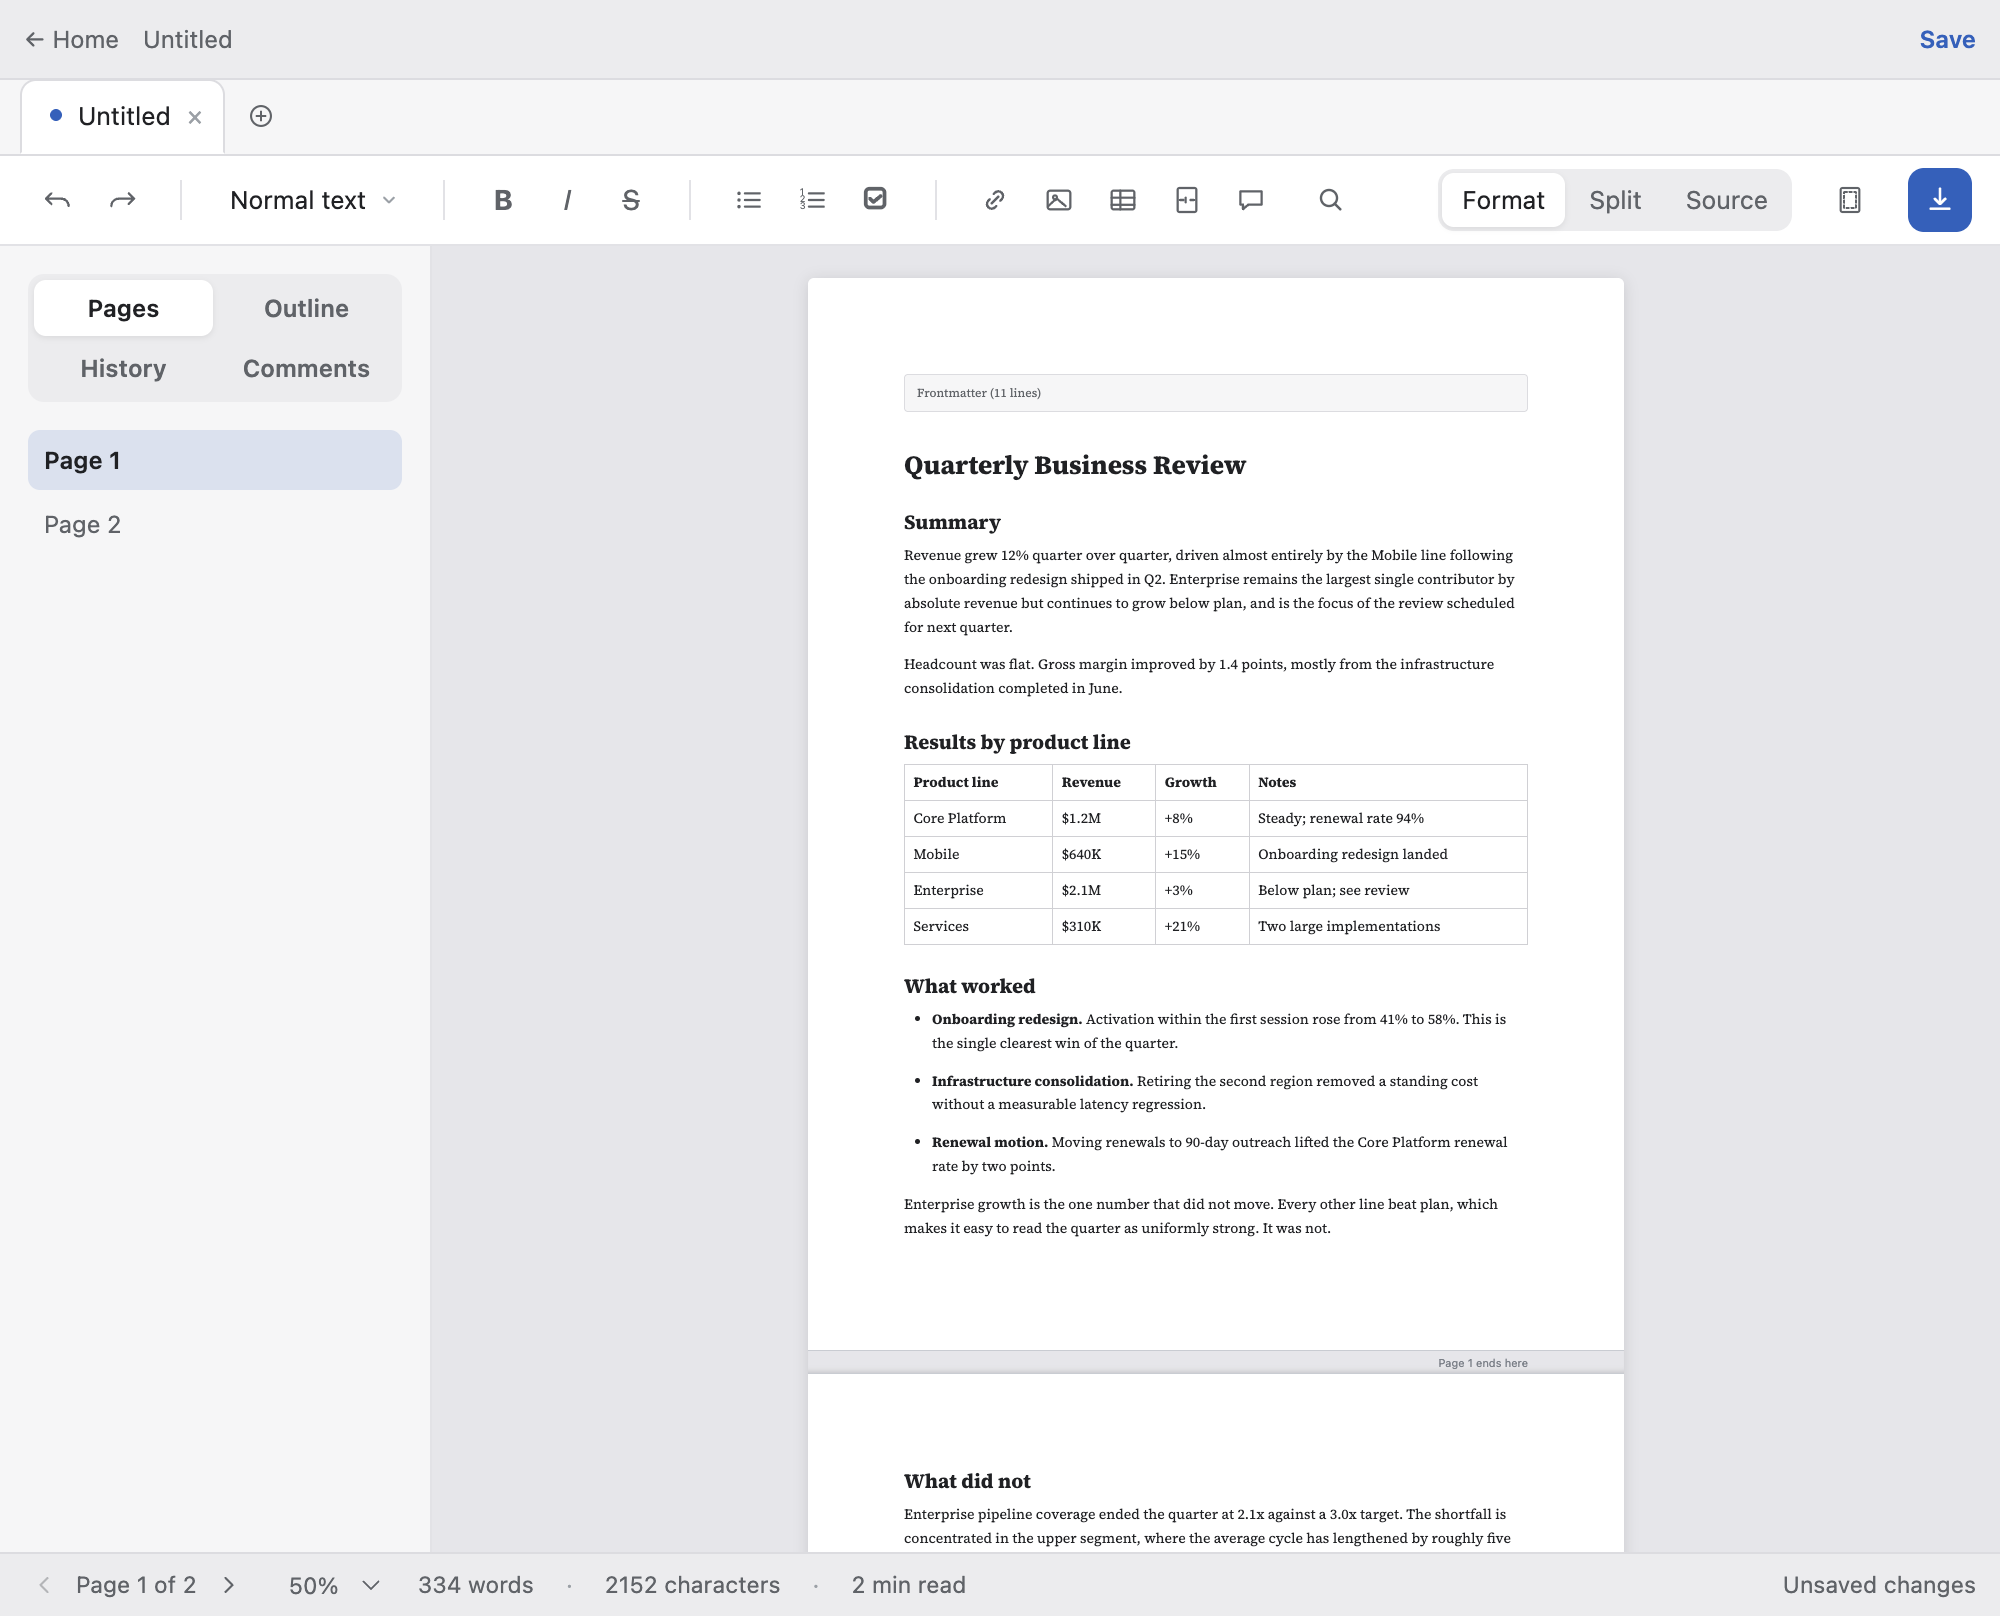
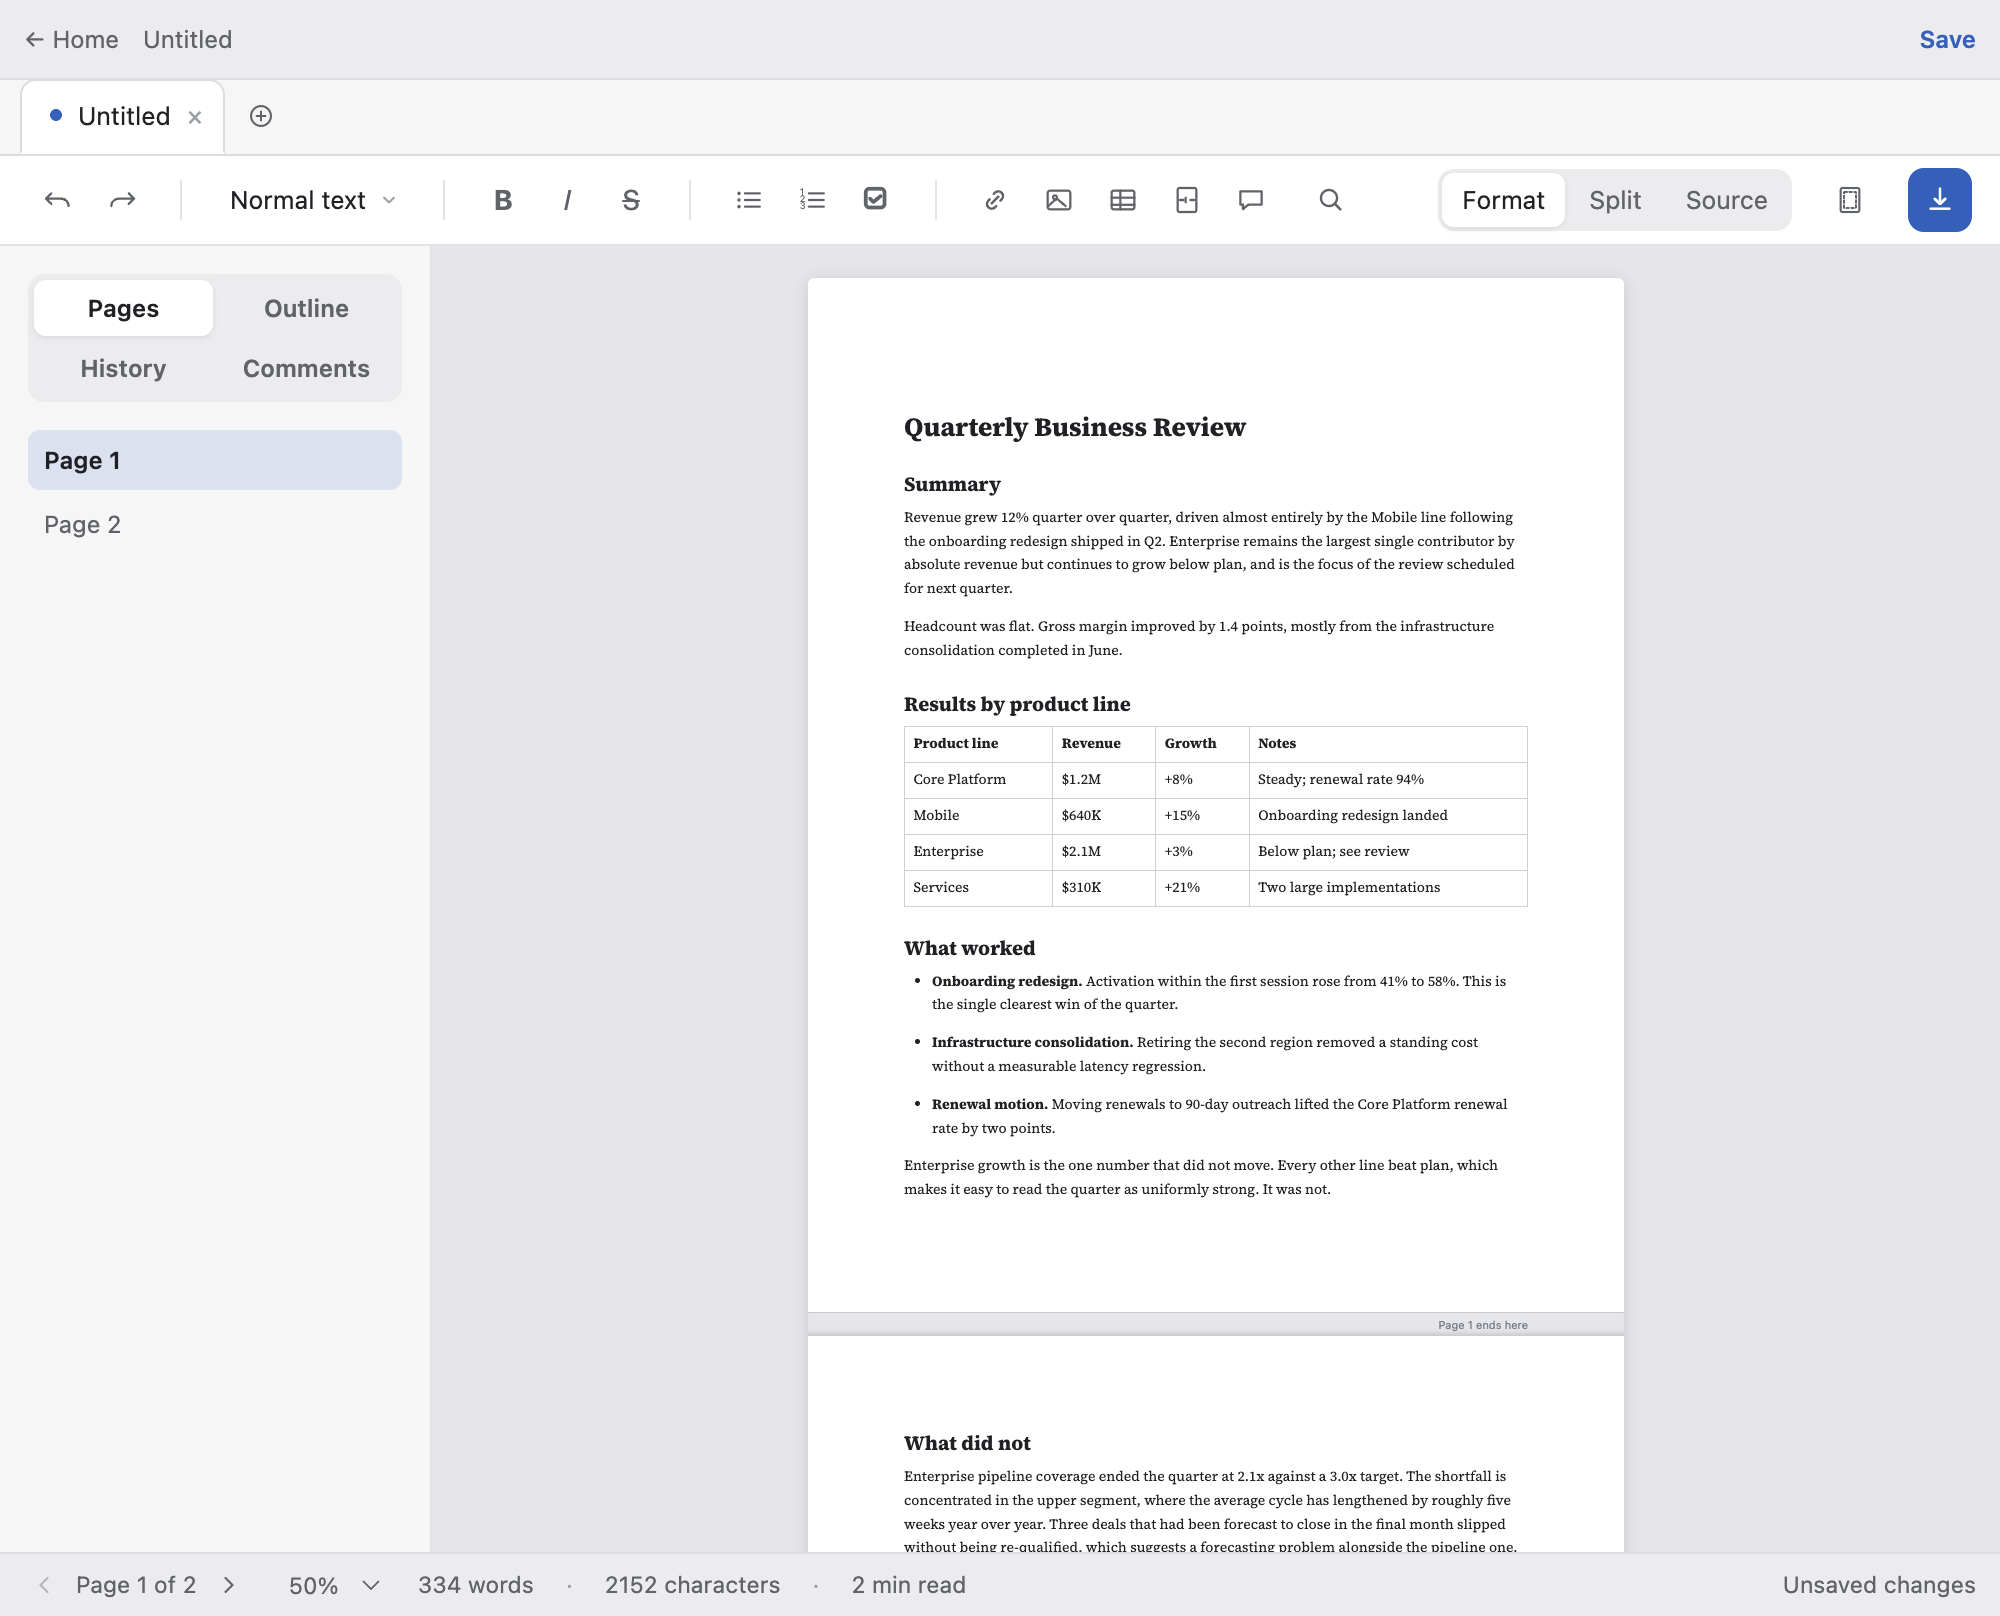
Stop painting a frontmatter box onto the page in the editor canvas
Frontmatter is the document's page CONFIGURATION -- page size, orientation,
margins, running header and footer. It is settings, not content, and it
renders to nothing on every output surface: mdast-util-to-hast emits nothing
at all for a `yaml` node, so the paginated preview, the exported PDF, print,
and HTML/DOCX export have never shown it.

The canvas disagreed. It painted a bordered grey `Frontmatter (N lines)` box
at the top of page 1 -- an editor/paginator divergence in the one product
whose entire premise is that those two agree, sitting on the paper, in the
first thing anyone sees when they open a document.

The node itself has to stay: every part of the file must map to something in
the ProseMirror document, or serializing back out would silently delete the
user's page setup on their first keystroke. So it now renders exactly as it
prints -- zero height, no paint, no label -- while still carrying the raw
YAML on `data-value` for the parseDOM round trip.

MilkdownEditor.test.tsx pins this, and the test is red-green verified:
restoring the old toDOM fails it with `expected 'Frontmatter (3 lines)' to
be ''`, and it passes once the fix is restored.

Worth recording, because it is why this took several rounds to find: the box
was shaping decisions around it rather than being treated as the defect.
The resume template had its frontmatter DELETED partly to avoid summoning it,
useCreateDocument grew a comparison function whose stated purpose was to
[…]

Changed region(s): [[0.434, 0.2166, 0.775, 0.7735], [0.403, 0.8045, 0.806, 0.9592]]

diff --git a/src/renderer/src/milkdown/MilkdownEditor.test.tsx b/src/renderer/src/milkdown/MilkdownEditor.test.tsx
@@ -428,6 +428,58 @@ describe('MilkdownEditorHandle commands needing a real ranged selection — wire
     expect(root.textContent).toContain('X')
   })
 
+  it('renders the frontmatter node invisibly, with no visible label or box', async () => {
+    // Frontmatter is the document's page CONFIGURATION, not content, and it
+    // renders to NOTHING on every output surface (paginated preview, PDF,
+    // print, HTML and DOCX export) because mdast-util-to-hast emits nothing
+    // for a `yaml` node. The canvas must agree: this is a page-first editor
+    // whose entire premise is that what you edit matches what prints.
+    //
+    // This node once painted a bordered grey `Frontmatter (N lines)` box at
+    // the top of page 1. It was a real editor/paginator divergence, and it
+    // distorted product decisions around it -- the resume template had its
+    // frontmatter DELETED to avoid summoning it, and useCreateDocument still
+    // carries a comparison function whose only job is to avoid writing
+    // frontmatter that would show it.
+    //
+    // Asserting on textContent AND on the absence of paint-related styling,
+    // because the previous version failed on both counts and either one
+    // coming back is the bug.
+    const editor = await createTestEditor(
+      '---\npage: A4\nmargins:\n  top: 1\n---\n\n# Real heading',
+      PLUGINS
+    )
+    currentEditor = editor
+    const root = document.querySelector('.ProseMirror') as HTMLElement
+
+    const frontmatter = root.querySelector('div[data-type="frontmatter"]') as HTMLElement
+    // Still present: the node has to exist or serializing back out would
+    // silently delete the user's page setup on their first keystroke.
+    expect(frontmatter).toBeInTheDocument()
+    // ...carrying the real YAML, so it round-trips.
+    expect(frontmatter.getAttribute('data-value')).toContain('page: A4')
+
+    // But contributing NO visible text anywhere in the canvas.
+    expect(frontmatter.textContent).toBe('')
+    expect(root.textContent).not.toMatch(/Frontmatter/i)
+    expect(root.textContent).not.toContain('page: A4')
+
+    // ...and no painted box: zero height, no padding or margin of its own.
+    // (The class is deliberately NOT asserted empty -- ProseMirror adds its
+    // own `ProseMirror-selectednode` marker when the atom is selected, which
+    // is its bookkeeping, not styling this node asked for.)
+    const style = frontmatter.getAttribute('style') ?? ''
+    expect(style).toMatch(/height:\s*0(px)?/)
+    expect(style).toMatch(/padding:\s*0(px)?/)
+    expect(style).toMatch(/overflow:\s*hidden/)
+    // No utility classes painting a border/background, which is how the old
+    // visible box was styled.
+    expect(frontmatter.className).not.toMatch(/border|bg-|rounded|px-|py-/)
+
+    // The real document content is unaffected.
+    expect(root.textContent).toContain('Real heading')
+  })
+
   it('setFindState selects the active match without marking the document edited', async () => {
     const editor = await createTestEditor('alpha beta', FIND_PLUGINS)
     currentEditor = editor

diff --git a/src/renderer/src/milkdown/nodes/frontmatter.ts b/src/renderer/src/milkdown/nodes/frontmatter.ts
@@ -16,16 +16,39 @@ export const frontmatterNode = $nodeSchema('frontmatter', () => ({
       })
     }
   ],
+  // INVISIBLE, and it must stay that way.
+  //
+  // Frontmatter is the document's own page CONFIGURATION (page size,
+  // orientation, margins, running header/footer) -- settings, not content. It
+  // renders to nothing in the paginated preview, the exported PDF, print, and
+  // HTML/DOCX export, because `mdast-util-to-hast` emits nothing at all for a
+  // `yaml` node.
+  //
+  // This node exists ONLY so the YAML survives a round trip through the
+  // WYSIWYG canvas: every part of the file has to map to something in the
+  // ProseMirror document, or serializing back out would silently delete it --
+  // one keystroke in Format mode would destroy the user's page setup.
+  //
+  // It previously rendered a bordered grey `Frontmatter (N lines)` box at the
+  // top of the page card. That was a real editor/paginator divergence in the
+  // one product whose entire premise is that the canvas matches the printed
+  // page: the editor painted a box onto page 1 that no output surface has.
+  // Do not give this node visible styling, a label, a border, or any layout
+  // height again -- render it exactly as it prints, which is not at all.
+  //
+  // `data-value` carries the raw YAML for the parseDOM rule above, so a
+  // copy/paste round trip through the DOM keeps the real content.
   toDOM: (node) => [
     'div',
     {
       'data-type': 'frontmatter',
       'data-value': node.attrs.value,
       contenteditable: 'false',
-      class:
-        'mb-4 rounded border border-border-chrome bg-chrome-light px-3 py-2 text-12 text-text-secondary'
-    },
-    `Frontmatter (${String(node.attrs.value).split('\n').length} lines)`
+      // Not `display: none`: ProseMirror needs a real box to map positions
+      // against for an atom node. Zero-size and unpainted is the equivalent
+      // that keeps the document structurally addressable.
+      style: 'display:block;height:0;margin:0;padding:0;overflow:hidden'
+    }
   ],
   parseMarkdown: {
     match: ({ type }) => type === 'yaml',

diff --git a/src/renderer/src/templates/resume.md.ts b/src/renderer/src/templates/resume.md.ts
@@ -17,13 +17,17 @@
 //
 // The YAML frontmatter block this template used to carry is DELETED, not
 // rewritten. Its four keys (name/email/phone/location) exist nowhere in
-// PageConfig, so nothing in the app ever read or rendered them -- their only
-// observable effect was an opaque, non-editable `Frontmatter (4 lines)` node
-// sitting above a heading that already said the same thing. The contact line
-// below replaces it with the same information as real, editable, printing
-// document content. No page-config frontmatter was added in its place either:
-// that would put the very `Frontmatter (N lines)` block back on screen, and
-// this template's defaults (Letter, 1in) are already what it renders at.
+// PageConfig, so nothing in the app ever read or rendered them. The contact
+// line below replaces it with the same information as real, editable,
+// printing document content -- which is the right call regardless, since a
+// resume's contact details ARE content and belong on the page.
+//
+// Note that the ORIGINAL argument recorded here was partly about avoiding a
+// visible `Frontmatter (N lines)` box in the canvas. That box no longer
+// exists (see milkdown/nodes/frontmatter.ts), so adding page-config
+// frontmatter to this template is now purely a question of whether it needs
+// non-default page settings -- it does not; Letter/1in is already what it
+// renders at.
 //
 // Email uses an explicit `[text](mailto:...)` link rather than a bare
 // autolink literal: the explicit form is already proven to round-trip

diff --git a/src/renderer/src/hooks/useCreateDocument.ts b/src/renderer/src/hooks/useCreateDocument.ts
@@ -9,13 +9,17 @@ import type { Preferences } from '../../../preload/index.d'
 // Does the user's saved default page config actually differ from what a
 // document with NO frontmatter at all already renders as?
 //
-// This exists to stop a brand-new blank document opening with an opaque
-// `Frontmatter (4 lines)` block at the top of it. That block is not editable
-// in the canvas by design (Page Setup is how you change it), so for the
-// overwhelmingly common case -- a user who has never opened Settings -- it was
-// a grey box of YAML that said exactly what the app would have done anyway,
-// sitting above an otherwise empty page. It is the first thing a new user
-// sees, and it reads like leftover junk.
+// This originally existed to stop a brand-new blank document opening with a
+// visible `Frontmatter (4 lines)` box at the top of the page card. That box is
+// GONE -- frontmatter now renders invisibly in the canvas, exactly as it does
+// on every output surface (see nodes/frontmatter.ts) -- so that reason no
+// longer applies.
+//
+// The guard is kept on its own merits: writing frontmatter whose every key
+// matches what the document would already render as adds noise to the user's
+// real file for no behavioural change, and this app's whole premise is that
+// the Markdown stays clean and portable. It is no longer load-bearing for
+// anything visual.
 //
 // Compared field-by-field against DEFAULT_PAGE_CONFIG rather than against
 // DEFAULT_PREFERENCES: the question that actually matters is "would writing

diff --git a/src/renderer/src/templates/templates.test.ts b/src/renderer/src/templates/templates.test.ts
@@ -87,12 +87,16 @@ describe('template starter content', () => {
 
   // The resume template used to ship a four-key frontmatter block
   // (name/email/phone/location). NONE of those keys exist in PageConfig, so
-  // nothing in the app ever read or rendered them -- their entire observable
-  // effect was an opaque, non-editable `Frontmatter (4 lines)` node sitting
-  // above a heading and contact line that already said the same thing. It is
-  // deleted, and this pins that directly rather than only via the generic
-  // check below, which a re-added block of inert keys would fail anyway but
-  // less legibly.
+  // nothing in the app ever read or rendered them -- inert keys in the user's
+  // own file, duplicating a heading and contact line that already said the
+  // same thing. It is deleted, and this pins that directly rather than only
+  // via the generic check below, which a re-added block of inert keys would
+  // fail anyway but less legibly.
+  //
+  // (The original reasoning also cited a visible `Frontmatter (4 lines)` box
+  // in the canvas. That box no longer exists -- see
+  // milkdown/nodes/frontmatter.ts -- so this test now pins only the "no inert
+  // keys" half, which stands on its own.)
   //
   // Note templates are deliberately exempt from the rule that a new blank
   // document only gets frontmatter when the user's saved default page config

diff --git a/src/renderer/src/App.test.tsx b/src/renderer/src/App.test.tsx
@@ -431,9 +431,10 @@ describe('App', () => {
       // The complement of the test above, and the common case by far: a user
       // who has never opened Settings. Writing their defaults out explicitly
       // produced a document whose bytes said exactly what the app would have
-      // done anyway -- and because frontmatter renders in the canvas as a
-      // non-editable `Frontmatter (N lines)` block, the very first thing a new
-      // user saw was an opaque grey box above an otherwise empty page.
+      // done anyway. (This originally also avoided a visible
+      // `Frontmatter (N lines)` box at the top of the canvas; that box no
+      // longer exists -- see milkdown/nodes/frontmatter.ts -- so what remains
+      // is simply not writing inert keys into the user's own file.)
       //
       // Asserted as "completely empty", not merely "no `page:` key": the
       // failure this guards against is a frontmatter block existing at all,

diff --git a/ARCHITECTURE.md b/ARCHITECTURE.md
@@ -263,6 +263,22 @@ the edited region. An untouched document's bytes are preserved exactly; an
 edited one is not guaranteed byte-identical outside the edit. This is inherent
 to WYSIWYG over Markdown.
 
+> **The frontmatter node renders invisibly, and must stay that way.**
+> Frontmatter is the document's page _configuration_, not content, and it
+> renders to nothing on every output surface — `mdast-util-to-hast` emits
+> nothing at all for a `yaml` node. `milkdown/nodes/frontmatter.ts` exists
+> only so the YAML survives the round trip: every part of the file must map to
+> something in the ProseMirror document, or serializing back out would
+> silently delete the user's page setup on their first keystroke.
+>
+> It previously rendered a bordered grey `Frontmatter (N lines)` box at the
+> top of the page card. That was a real editor/paginator divergence in the one
+> product whose premise is that the two agree, and it distorted decisions
+> around it — a template had its frontmatter deleted to avoid summoning it,
+> and `useCreateDocument` still carries a guard originally written for the
+> same reason. Do not give this node visible styling, a label, or layout
+> height again; `MilkdownEditor.test.tsx` pins this and is red-green verified.
+
 ### View modes
 
 `ViewMode` is `'format' | 'split' | 'source'`. Split mode's left pane is
